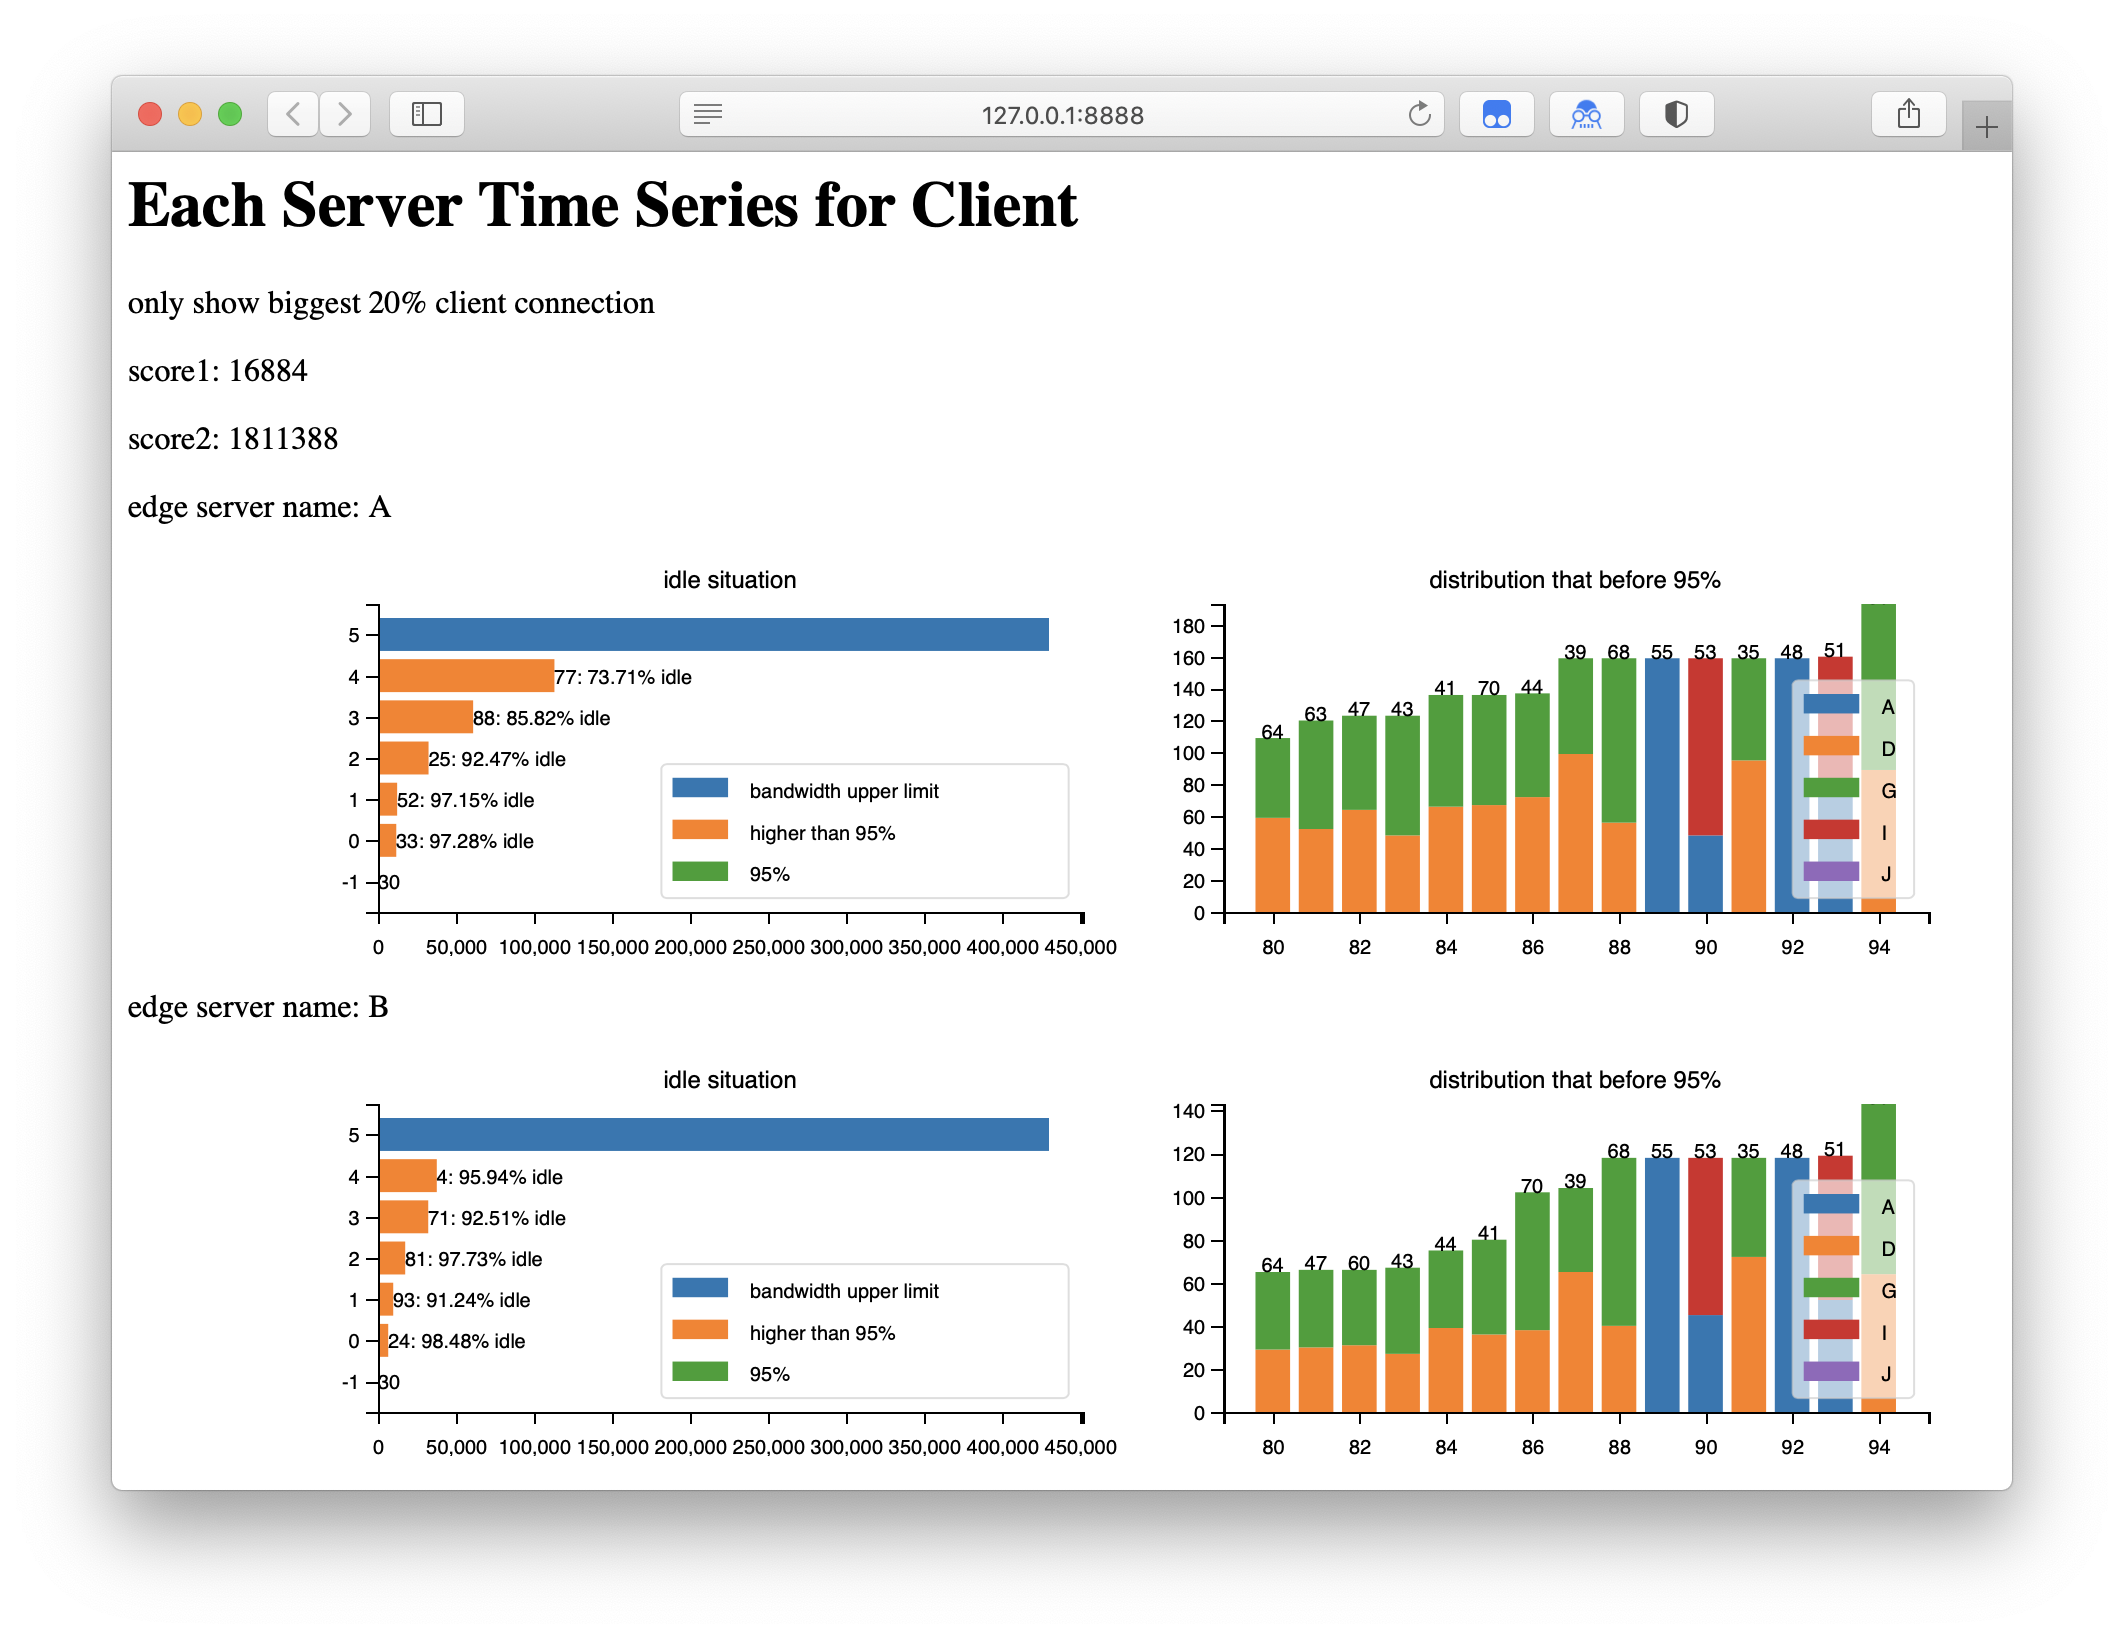
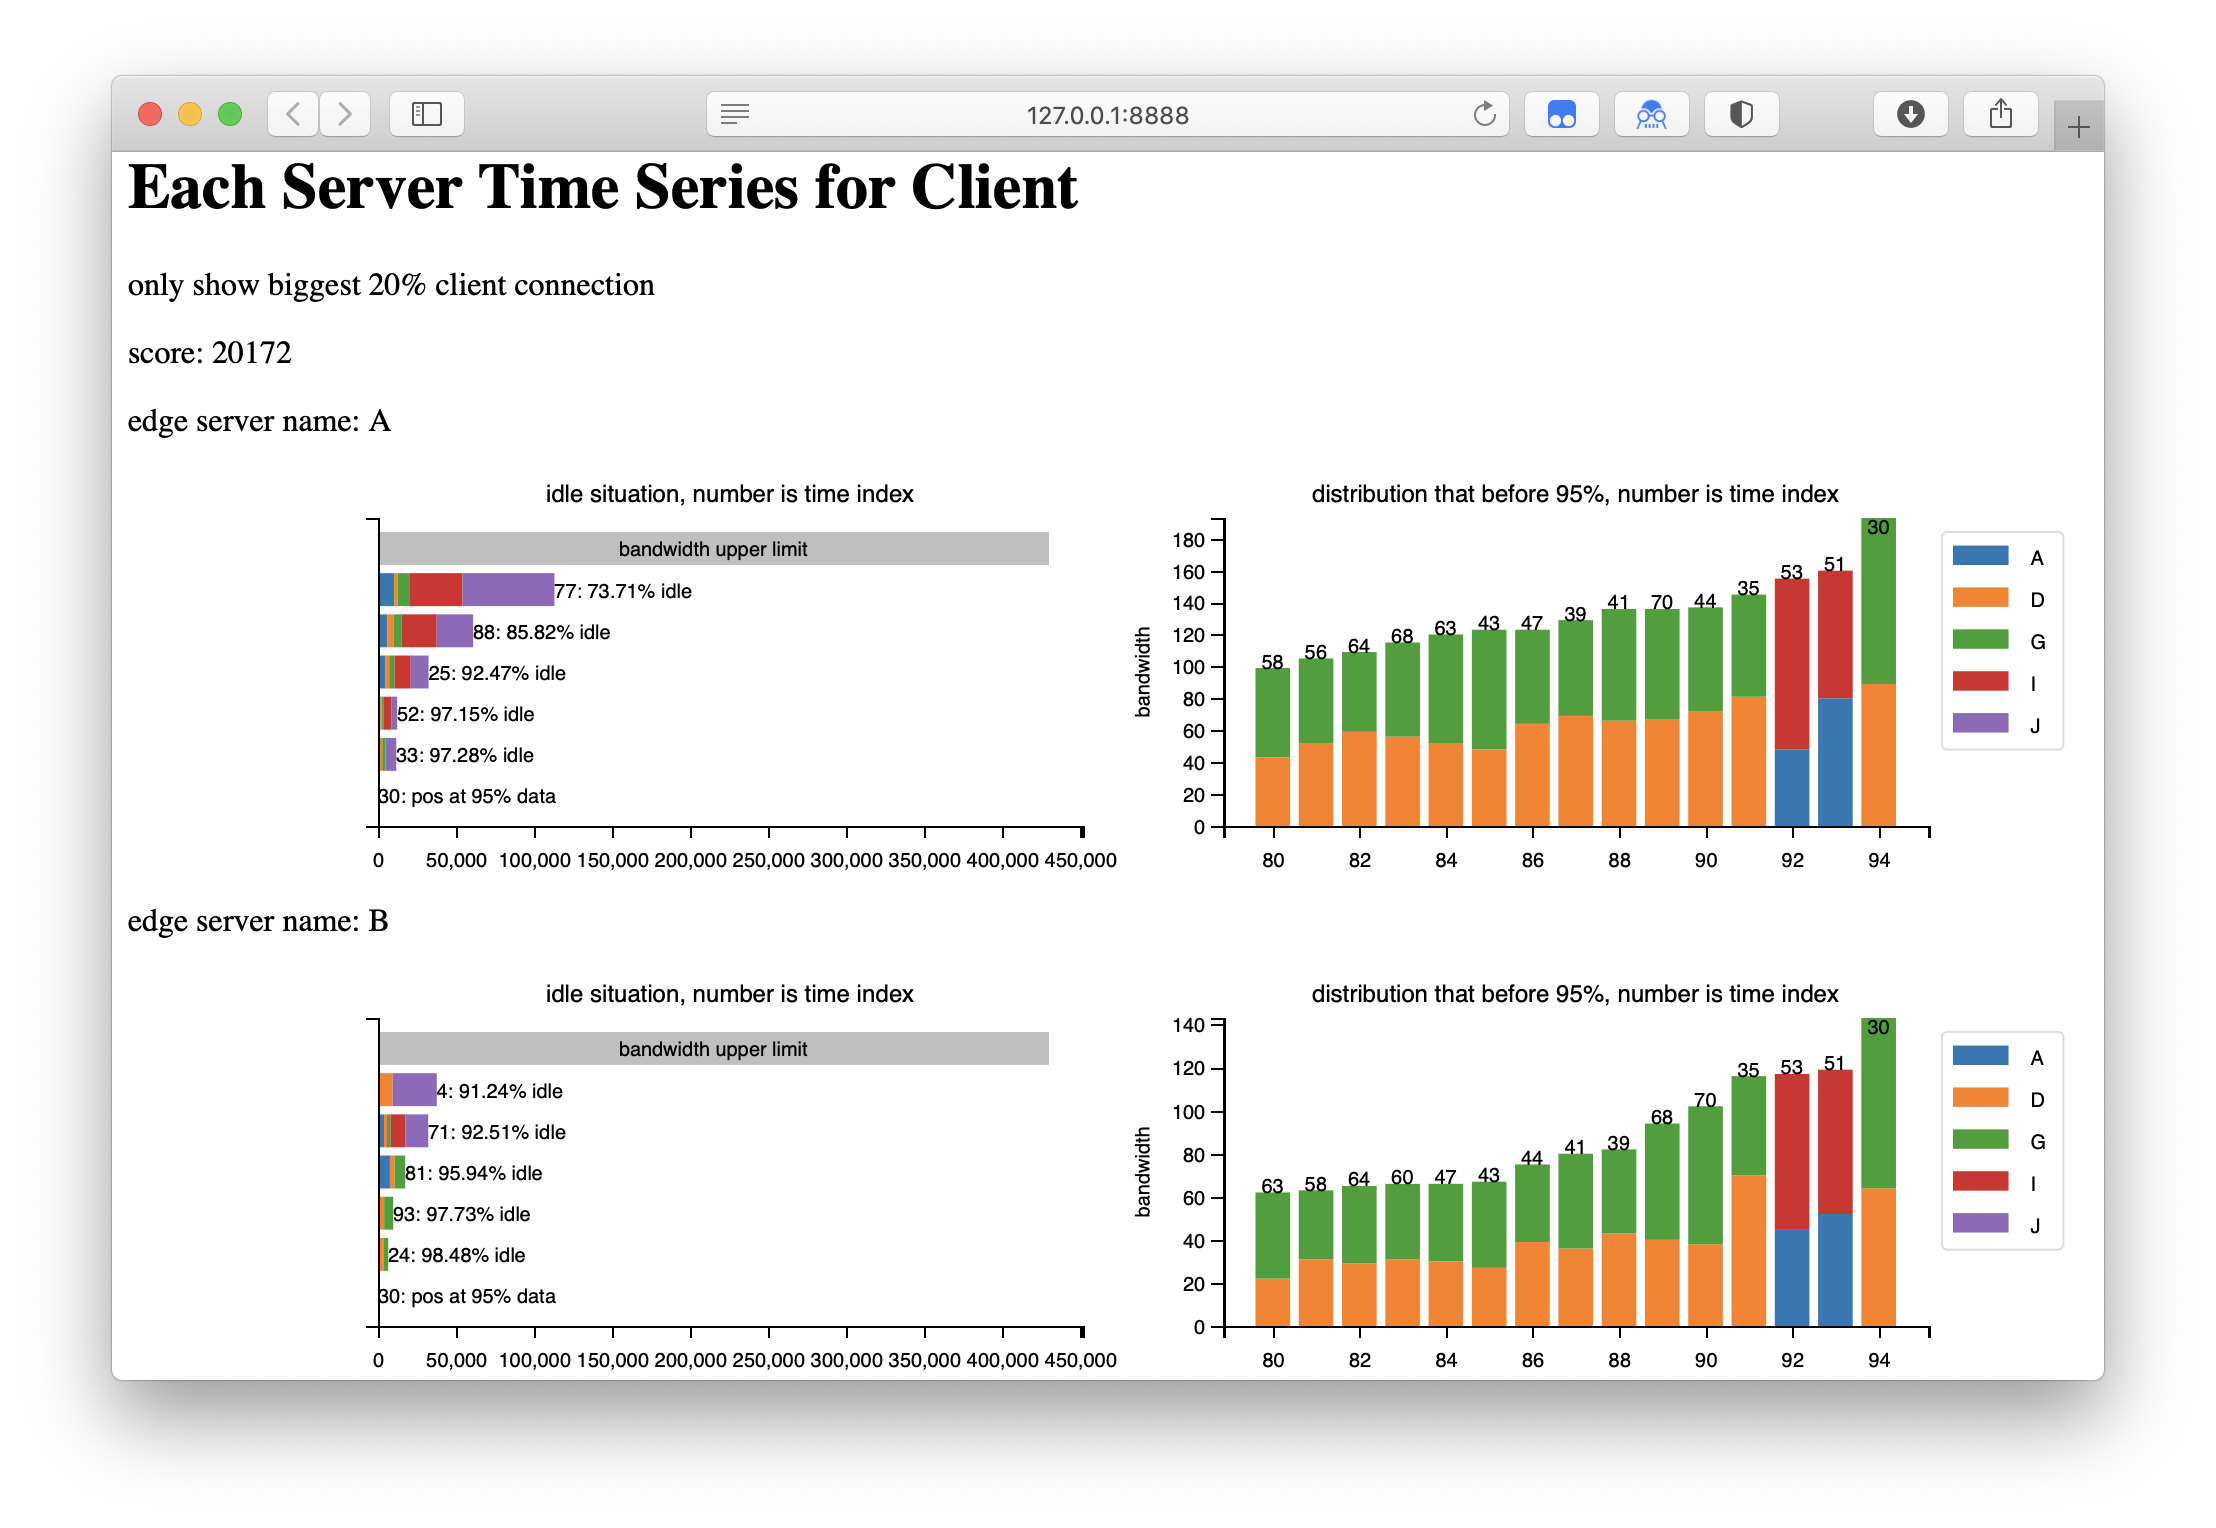
better display; some bug fix

Changed region(s): [[0.0311, 0.0308, 0.9633, 0.6459], [0.0621, 0.6459, 0.9633, 0.9228], [0.4972, 0.3076, 0.9322, 0.5844]]

diff --git a/benchmark.py b/benchmark.py
@@ -48,16 +48,16 @@ class ServerSeriesPlot(Plot):  # x: time  y: many client bandwidth height. P.S. 
         self.bottom = []
         self.heights = []
     
-    def add(self, label: str, y_height: int):
+    def add(self, label: str, y_height: int):  # client name, bw in every time for this client
         # plt.bar(self.time, bottom=self.y_accu, height=y_height, label=label)
-        self.labels.append(label)
-        self.heights.append(y_height)
-        self.y_accu += y_height
+        self.labels.append(label)       # list: each contains name of client
+        self.heights.append(y_height)   # c_idx, t_idx
+        self.y_accu += y_height         # t_idx, height for every time
 
     def add_idle_matrix(self, idle_series: np.ndarray, idx_series: np.ndarray, s_idx: int): # s_idx, t_idx
         plt.subplot(121)
         plt.title('idle situation, number is time index')
-        plt.xlabel('bandwidth')
+        plt.xlabel('bandwidth', labelpad=1.0)
         upper_bw = bandwidth[s_idx]
         idx = np.argsort(-idle_series)
         idle_series = idle_series[idx]
@@ -70,7 +70,7 @@ class ServerSeriesPlot(Plot):  # x: time  y: many client bandwidth height. P.S. 
         plt.barh(np.arange(len(arg)), used_bw[arg], label='higher than 95%', tick_label=tick_labels)
         for x, y, label, perc in zip(   used_bw[arg], np.arange(len(arg)), 
                                         list(map(lambda x: str(x), idx_series[arg].tolist())), idle_perc):
-            if perc > 0.7:
+            if perc > 0.35:
                 plt.text(x, y, '   ' + label + f':   {(perc * 100):.2f}% idle', ha='left', va='center')
             else:
                 plt.text(x, y, '   ' + label + f':   {(perc * 100):.2f}% idle', ha='right', va='center')
@@ -78,35 +78,68 @@ class ServerSeriesPlot(Plot):  # x: time  y: many client bandwidth height. P.S. 
     def draw_95_at_left(self, height: int, idx: str):
         plt.barh(-1, height, label='95%', tick_label='95%')
         plt.text(height, -1, str(idx), ha='left', va='center')
+        plt.yticks([])
         plt.legend()
 
-    def plot(self):
+    def plot(self, s_idx):
         idx = np.argsort(self.y_accu)
         sep_idx = int(len(idx) * 0.8)
         end_idx = int(math.ceil(len(idx) * 0.95)) 
         time_str = self.time[idx].tolist()
         time_str = [ str(i) for i in time_str]
-        self.draw_95_at_left(np.array(self.heights).sum(axis=0)[end_idx-1], time_str[end_idx-1])
+        upper_bw = bandwidth[s_idx]
+        idle = upper_bw - self.y_accu
+        idle_perc = idle / upper_bw
+        # self.draw_95_at_left(np.array(self.heights).sum(axis=0)[end_idx-1], time_str[end_idx-1])
         plt.subplot(122)
         plt.title('distribution that before 95%, number is time index')
-        plt.ylabel('bandwidth')
-        for label, height in zip(self.labels, np.array(self.heights)[:, idx]):
+        plt.ylabel('bandwidth', labelpad=0.5)
+        for label, height in zip(self.labels, np.array(self.heights)[:, idx]):   # iterate for c_idx and sorted time
             plt.bar(self.time[sep_idx: end_idx], bottom=self.bottom[sep_idx: end_idx], height=height[sep_idx: end_idx], label=label)
             self.bottom += height
         for x, y, label in zip(self.time[sep_idx: end_idx], self.bottom[sep_idx: end_idx], time_str[sep_idx: end_idx]):
-            plt.text(x, y, label, ha='center', va='bottom')
+            if y / self.bottom[end_idx-1] < 0.95:
+                plt.text(x, y, label, ha='center', va='bottom')
+            else:
+                plt.text(x, y, label, ha='center', va='top')
+        plt.legend(loc=2, bbox_to_anchor=(1.0,1.0))
+        self.plot_idle(idx, idle_perc, s_idx)
         del self.labels, self.bottom, self.heights, self.time, self.y_accu
     
-    def add_client_time_series(self, matrix: np.ndarray, c_idx_list: List[int]):  # time * client  value: bandwidth
+    def plot_idle(self, idx: np.ndarray, idle_perc: np.ndarray, s_idx):
+        plt.subplot(121)
+        plt.title('idle situation, number is time index')
+        plt.xlabel('bandwidth', labelpad=0)
+        my_bottom = np.zeros(len(idx), dtype=np.int64) # sorted
+        end_idx = int(math.ceil(len(idx) * 0.95)) 
+        for c_name, height in zip(self.labels, np.array(self.heights)[:, idx]):
+            plt.barh(self.time[end_idx-1:], height[end_idx-1:], left=my_bottom[end_idx-1:], label=c_name)
+            my_bottom += height
+        for x, y, t_idx, perc in zip(self.y_accu[idx][end_idx:], self.time[end_idx:], 
+                                        idx[end_idx:], idle_perc[idx][end_idx:]):
+            if perc > 0.35:
+                plt.text(x, y, ' ' + str(t_idx) + f': {(perc * 100):.2f}% idle', ha='left', va='center')
+            else:
+                plt.text(x, y, ' ' + str(t_idx) + f': {(perc * 100):.2f}% idle', ha='right', va='center')
+        if idle_perc[idx][end_idx-1] > 0.35:
+            plt.text(self.y_accu[idx][end_idx-1], end_idx-1, str(idx[end_idx-1]) + ': pos at 95% data', ha='left', va='center')
+        else:
+            plt.text(self.y_accu[idx][end_idx-1], end_idx-1, str(idx[end_idx-1]) + ': pos at 95% data', ha='right', va='center')
+        plt.barh(len(idx), bandwidth[s_idx], color='k', alpha=0.5)
+        plt.text(bandwidth[s_idx] / 2, len(idx), 'bandwidth upper limit', ha='center', va='center')
+        plt.yticks([])
+        plt.xticks(rotation=-15) 
+        # plt.legend()
+    
+    def add_client_time_series(self, matrix: np.ndarray, c_idx_list: List[int], s_idx: int):  # time * client  value: bandwidth
         self.time = np.arange(len(matrix))
         self.y_accu = np.zeros(len(matrix), dtype=np.int64)
         self.bottom = np.zeros(len(matrix), dtype=np.int64)
         for i, c_idx in enumerate(c_idx_list):
             c = cname[c_idx]
             value = matrix[:, i]
-            self.add(c, value)
-        self.plot()
-        plt.legend()
+            self.add(c, value)  # client name, bw in every time for this client
+        self.plot(s_idx)
     
     def generate_figure(self):
         id = Plot.id_cnt
@@ -303,11 +336,11 @@ class OutputAnalyser():
         for s_idx, one_server_to_client in enumerate(conn_matrix):
             if one_server_to_client.sum() == 0: continue
             plot = ServerSeriesPlot(s_idx)
-            plot.add_idle_matrix(self.idle_matrix[s_idx], self.idle_matrix_t_idx_arr[s_idx], s_idx)
+            # plot.add_idle_matrix(self.idle_matrix[s_idx], self.idle_matrix_t_idx_arr[s_idx], s_idx)
             c_idx_avail_list = []
             for c_idx, client in enumerate(one_server_to_client):
                 if client: c_idx_avail_list.append(c_idx)
-            plot.add_client_time_series(self.record[:, s_idx, c_idx_avail_list], c_idx_avail_list)
+            plot.add_client_time_series(self.record[:, s_idx, c_idx_avail_list], c_idx_avail_list, s_idx)
             self.plot_manager.add_plot(plot)
     
     def empty_analyse(self):
